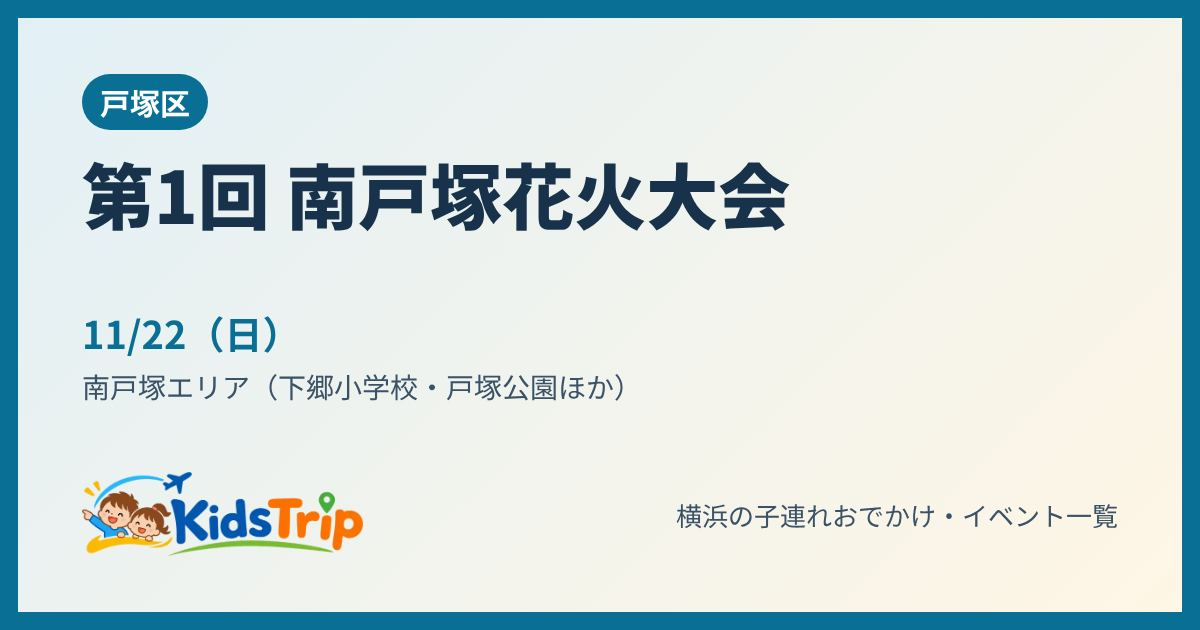
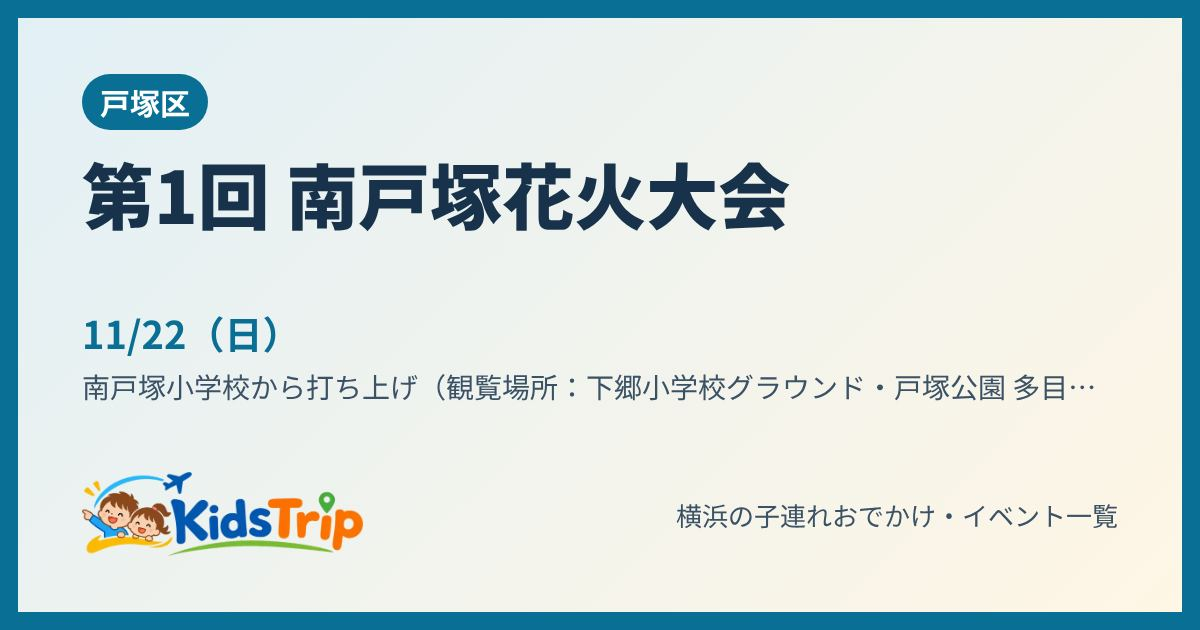
南戸塚花火大会：概要（観覧場所・イベント会場）は載せ、くわしい内容は主催のInstagramへ誘導する形に
Claude-Session: https://claude.ai/code/session_014AtJ2gk8Y7wNUEGdkodLXj

Changed region(s): [[0.1233, 0.573, 0.8942, 0.6333]]

diff --git a/js/data.js b/js/data.js
@@ -1992,7 +1992,7 @@ EVENTS.push({"t": "こども科学捜査・体験教室（磯子センター）"
 EVENTS.push({"t": "い草で作る正月飾り（日野中央公園）", "days": ["12/12"], "time": "10:00〜11:00", "ward": "港南区", "venue": "日野中央公園（港南区日野中央2-2-1）", "price": "paid", "priceText": "1,500円", "place": "屋内", "rain": "check", "rainText": "公式ページに記載なし", "resv": true, "resvText": "電話・FAX・メール・窓口で申込（11/11〜12/11、先着10人）", "age": [6, 99], "ageText": "子ども〜大人", "kind": "limited", "start": 600, "sum": "畳の材料のい草で、玄関に飾れる正月飾りを作る。", "tip": "軍手と持ち帰り用の袋を持っていく", "url": "https://cgi.city.yokohama.lg.jp/common/event2/event_detail.html?id=111884", "src": "横浜市 市民利用施設等イベント情報", "asof": "2026年11月19日"});
 EVENTS.push({"t": "金沢動物園 コアラ・オオカンガルー来園40周年 写真展・モザイクアート", "days": [], "time": "9:30〜16:30（入園は16:00まで）", "ward": "金沢区", "venue": "金沢動物園 オセアニア休憩所", "price": "admission", "priceText": "入園料：一般500円・高校生300円・小中学生200円・未就学児無料（土曜は高校生以下無料）", "place": "屋内", "rain": "check", "rainText": "雨で場所・時間が変わることあり", "resv": false, "resvText": "予約不要", "age": [0, 99], "ageText": "全年齢", "kind": "ongoing", "start": 570, "period": "10/13〜12/27", "sum": "コアラとオオカンガルーが来て40年の記念展示。懐かしい写真や家系図、来園者の写真で作ったモザイクアートが見られる。", "tip": "月曜休園", "url": "https://www.hama-midorinokyokai.or.jp/zoo/kanazawa/details/koala%20kangaroo40th.php", "src": "金沢動物園 公式", "asof": "2026年11月19日"});
 EVENTS.push({"t": "横浜・みなとみらいクリスマスミッションビンゴ", "days": [], "period": "11/20〜12/4", "time": "各施設の営業時間（ワールドポーターズのノベルティ引き換えは11:00〜20:30）", "ward": "中区", "venue": "横浜ワールドポーターズ・横浜赤レンガ倉庫ほか みなとみらいの参加施設", "price": "unknown", "priceText": "参加費は公式ページに記載なし（ワールドポーターズのミッションは期間中のレシートが対象）", "place": "屋内・屋外", "rain": "check", "rainText": "施設をめぐるので雨の日は屋内の施設中心に", "resv": false, "resvText": "予約不要（ビンゴチラシを入手して参加）", "age": [0, 99], "ageText": "家族で", "kind": "ongoing", "start": 660, "sum": "みなとみらいの参加施設ごとのミッションをクリアしてスタンプを集め、ビンゴを達成すると限定ノベルティシールがもらえる街めぐりの企画。", "tip": "チラシはワールドポーターズ1階観覧車側・2階汽車道側の入口ラックや参加施設で。ワールドポーターズでの引き換えは2階インフォメーションで、1人1枚・なくなりしだい終了。参加施設とミッションは赤レンガ倉庫のクリスマスマーケットのページ「近隣エリアとの連携」で。", "url": "https://www.yim.co.jp/news/detail/5251", "src": "横浜ワールドポーターズ公式（イベントニュース）", "asof": "2026年11月19日"});
-EVENTS.push({"t": "第1回 南戸塚花火大会", "days": ["11/22"], "time": "花火 17:50〜18:20（イベント会場は15:00〜19:00）", "ward": "戸塚区", "venue": "南戸塚エリア（下郷小学校・戸塚公園ほか）", "price": "unknown", "priceText": "チラシに記載なし", "place": "屋外", "rain": "check", "rainText": "雨の場合は11/28(土)に延期（当日の開催は主催の公式Instagramで）", "resv": null, "resvText": "チラシに記載なし", "age": [0, 99], "ageText": "全年齢（地域の子どもたちに向けた花火大会）", "kind": "limited", "start": 900, "sum": "「地域の子どもたちに笑顔を」をテーマにした、南戸塚で初めての地域の花火大会。", "tip": "観覧場所・行き方・交通規制・当日の開催は、主催の公式Instagramで確認を。車では行けない。", "url": "https://www.instagram.com/minamitotsuka_fireworks/", "src": "主催（南戸塚花火大会実行委員会）のInstagram @minamitotsuka_fireworks のチラシ・イベント会場マップ・会場周辺マップ（利用者が送った画面・2026年11月）", "asof": "2026年11月21日", "officialOnly": true, "officialLabel": "主催の公式Instagramを開く"});
+EVENTS.push({"t": "第1回 南戸塚花火大会", "days": ["11/22"], "time": "花火 17:50〜18:20（イベント会場は15:00〜19:00）", "ward": "戸塚区", "venue": "南戸塚小学校から打ち上げ（観覧場所：下郷小学校グラウンド・戸塚公園 多目的グラウンド・戸塚柏桜荘 屋上）", "price": "unknown", "priceText": "チラシに記載なし", "place": "屋外", "rain": "check", "rainText": "雨の場合は11/28(土)に延期（当日の開催は主催の公式Instagramでお知らせ）", "resv": null, "resvText": "チラシに記載なし", "age": [0, 99], "ageText": "全年齢（地域の子どもたちに向けた花火大会）", "kind": "limited", "start": 900, "sum": "「地域の子どもたちに笑顔を」をテーマにした、南戸塚で初めての花火大会。夕方の30分間、小学校から打ち上がる。15時からは戸塚公園のイベント会場で、キックターゲットやバスケット体験、ストラックアウトなど子ども向けの遊びもある。", "tip": "会場へはバスか歩きで（車は不可）。17:50からなので、小さい子は防寒を。くわしい行き方・交通規制・イベント会場の内容・当日の開催は、主催の公式Instagramで確認を。", "url": "https://www.instagram.com/minamitotsuka_fireworks/", "src": "主催（南戸塚花火大会実行委員会）のInstagram @minamitotsuka_fireworks のチラシ・イベント会場マップ・会場周辺マップ（利用者が送った画面・2026年11月）", "asof": "2026年11月21日", "officialOnly": true, "officialLabel": "主催の公式Instagramを開く"});
 EVENTS.push({"t": "水辺ストリート♬ミニライブ in 横浜市役所", "days": ["11/21"], "time": "17:15〜17:45", "ward": "中区", "venue": "横浜市役所 1F 水辺テラス（桜木町駅前）", "price": "unknown", "priceText": "公式ページに記載なし", "place": "屋外", "rain": "check", "rainText": "天候によって中止、または場所を変えることがある", "resv": null, "resvText": "公式ページに記載なし", "age": [0, 99], "ageText": "公式ページに記載なし（だれでも見られる場所での生ライブ）", "kind": "limited", "start": 1035, "sum": "みなとみらいの景色を見わたせる市役所の水辺テラスで、30分の生ライブ（出演：菅原貴司）。", "tip": "夕方なので防寒を。市役所の1F南側に授乳室・ベビー休憩室（毎日7〜23時・お湯あり）があるので、赤ちゃん連れでも安心。前後に館内の「LUXS FRONT」でごはんも。", "url": "https://www.atrium.city.yokohama.lg.jp/event/", "src": "横浜市役所アトリウム 公式（イベント）", "asof": "2026年11月19日"});
 EVENTS.push({"t": "SDGs未来都市・環境絵日記展2026（横浜市役所）", "days": [], "period": "11/29〜12/6", "time": "公式ページに記載なし（市役所の開いている時間に）", "ward": "中区", "venue": "横浜市役所 1F 展示スペースA・B（桜木町駅前・馬車道駅直結）", "price": "unknown", "priceText": "公式ページに記載なし", "place": "屋内", "rain": "ok", "rainText": "屋内", "resv": null, "resvText": "公式ページに記載なし", "age": [0, 99], "ageText": "公式ページに記載なし", "kind": "ongoing", "start": 600, "sum": "横浜市内の小学生が描いた「環境絵日記」のうちリサイクルデザイン賞の308作品と、高知県・サンディエゴ・ウランバートル・ネパールの子どもたちの絵日記を展示。", "tip": "小学生のきょうだいがいる家族は、同じ年ごろの子の絵を見るきっかけに。市役所の1F南側に授乳室・ベビー休憩室（毎日7〜23時・お湯あり）。", "url": "https://www.atrium.city.yokohama.lg.jp/event/", "src": "横浜市役所アトリウム 公式（イベント）", "asof": "2026年11月19日"});
 EVENTS.push({"t": "レゴのサンタグリーティング＆ブロック組み立て（BALLPARK Xmas）", "days": ["11/28", "11/29", "12/12", "12/13"], "time": "サンタのグリーティング11:00・13:00・15:00（各30分ほど）、組み立て・サンタ探しは11:00〜17:00（サンタ探しの受付は16:00まで）", "ward": "中区", "venue": "横浜公園（キッズエリア・ツリー前）・BASEGATE横浜関内（12/12のグリーティングはBASEGATEのセントラルプラザ）", "price": "free", "priceText": "無料", "place": "屋外", "rain": "check", "rainText": "BASEGATE 3Fのキッズスペースは荒天で中止。ほかは公式ページに記載なし", "resv": false, "resvText": "予約なし・先着（サンタ探しはレゴジャパンのLINE公式アカウントの友だち登録が必要。ミニキットは数に限りあり）", "age": [1, 12], "ageText": "レゴは4歳から、デュプロは1歳半から（未就学児は保護者と一緒に）", "kind": "limited", "start": 660, "sum": "横浜公園のクリスマス会場で、レゴのサンタに会ったり、ブロックを組み立てて持ち帰ったりできる4日間。", "tip": "「レゴプール」は12/25まで毎日11:00〜17:00に無料で遊べる。BALLPARK Xmas本体の情報もあわせて見て", "url": "https://ballparkxmas.com/2026/", "src": "BALLPARK Xmas YOKOHAMA KANNAI 2026 公式", "asof": "2026年11月20日"});

diff --git a/event/kntu4a/index.html b/event/kntu4a/index.html
@@ -4,12 +4,12 @@
 <meta charset="utf-8">
 <meta name="viewport" content="width=device-width, initial-scale=1">
 <title>第1回 南戸塚花火大会（戸塚区）｜横浜の子連れイベント｜KidsTrip</title>
-<meta name="description" content="11月22日(日)　南戸塚エリア（下郷小学校・戸塚公園ほか）。「地域の子どもたちに笑顔を」をテーマにした、南戸塚で初めての地域の花火大会。">
+<meta name="description" content="11月22日(日)　南戸塚小学校から打ち上げ（観覧場所：下郷小学校グラウンド・戸塚公園 多目的グラウンド・戸塚柏桜荘 屋上）。「地域の子どもたちに笑顔を」をテーマにした、南戸塚で初めての花火大会。夕方の30分間、小学校から打ち上がる。15時">
 <link rel="canonical" href="https://kidstrip.jp/event/kntu4a/">
 <meta property="og:type" content="article">
 <meta property="og:site_name" content="KidsTrip">
 <meta property="og:title" content="第1回 南戸塚花火大会（戸塚区）｜横浜の子連れイベント｜KidsTrip">
-<meta property="og:description" content="11月22日(日)　南戸塚エリア（下郷小学校・戸塚公園ほか）。「地域の子どもたちに笑顔を」をテーマにした、南戸塚で初めての地域の花火大会。">
+<meta property="og:description" content="11月22日(日)　南戸塚小学校から打ち上げ（観覧場所：下郷小学校グラウンド・戸塚公園 多目的グラウンド・戸塚柏桜荘 屋上）。「地域の子どもたちに笑顔を」をテーマにした、南戸塚で初めての花火大会。夕方の30分間、小学校から打ち上がる。15時">
 <meta property="og:url" content="https://kidstrip.jp/event/kntu4a/">
 <meta property="og:image" content="https://kidstrip.jp/og/kntu4a.jpg">
 <meta property="og:image:width" content="1200">
@@ -21,7 +21,7 @@
 <link rel="icon" href="../../img/favicon.png">
 <link rel="apple-touch-icon" href="../../img/apple-touch-icon.png">
 <script type="application/ld+json">{"@context": "https://schema.org", "@type": "BreadcrumbList", "itemListElement": [{"@type": "ListItem", "position": 1, "name": "トップ", "item": "https://kidstrip.jp/"}, {"@type": "ListItem", "position": 2, "name": "イベント", "item": "https://kidstrip.jp/"}, {"@type": "ListItem", "position": 3, "name": "第1回 南戸塚花火大会"}]}</script>
-<script type="application/ld+json">{"@context": "https://schema.org", "@type": "Event", "name": "第1回 南戸塚花火大会", "startDate": "2026-11-22T15:00:00+09:00", "endDate": "2026-11-22", "eventStatus": "https://schema.org/EventScheduled", "eventAttendanceMode": "https://schema.org/OfflineEventAttendanceMode", "location": {"@type": "Place", "name": "南戸塚エリア（下郷小学校・戸塚公園ほか）", "address": {"@type": "PostalAddress", "addressLocality": "横浜市戸塚区", "addressRegion": "神奈川県", "addressCountry": "JP"}}, "description": "「地域の子どもたちに笑顔を」をテーマにした、南戸塚で初めての地域の花火大会。", "image": ["https://kidstrip.jp/og/kntu4a.jpg"], "url": "https://kidstrip.jp/event/kntu4a/", "isAccessibleForFree": false, "inLanguage": "ja"}</script>
+<script type="application/ld+json">{"@context": "https://schema.org", "@type": "Event", "name": "第1回 南戸塚花火大会", "startDate": "2026-11-22T15:00:00+09:00", "endDate": "2026-11-22", "eventStatus": "https://schema.org/EventScheduled", "eventAttendanceMode": "https://schema.org/OfflineEventAttendanceMode", "location": {"@type": "Place", "name": "南戸塚小学校から打ち上げ（観覧場所：下郷小学校グラウンド・戸塚公園 多目的グラウンド・戸塚柏桜荘 屋上）", "address": {"@type": "PostalAddress", "addressLocality": "横浜市戸塚区", "addressRegion": "神奈川県", "addressCountry": "JP"}}, "description": "「地域の子どもたちに笑顔を」をテーマにした、南戸塚で初めての花火大会。夕方の30分間、小学校から打ち上がる。15時からは戸塚公園のイベント会場で、キックターゲットやバスケット体験、ストラックアウトなど子ども向けの遊びもある。", "image": ["https://kidstrip.jp/og/kntu4a.jpg"], "url": "https://kidstrip.jp/event/kntu4a/", "isAccessibleForFree": false, "inLanguage": "ja"}</script>
 <style>
 .gkcmp th[scope=row]{white-space:nowrap}.gkcmp td{font-size:.92em}
 .gk{list-style:none;padding:0}.gk li{border:1px solid #e5e5e5;border-radius:10px;padding:10px 12px;margin:8px 0;line-height:1.7}.gk h3{margin:0 0 2px;font-size:1.02em}
@@ -50,19 +50,19 @@ footer{margin:28px 0 8px;font-size:12px;color:var(--muted)}
 <p class="crumb"><a href="/">トップ</a> ＞ <a href="/">イベント</a> ＞ 第1回 南戸塚花火大会</p>
 <article class="card">
 <h1>第1回 南戸塚花火大会</h1>
-<p class="tip">主催から「公式の情報を見てほしい」とのお願いがあるため、ここでは概要だけ載せています。観覧場所・行き方・当日の開催は主催の公式ページで確認してください。</p><div class="btns"><a class="btn main" data-act="official" href="https://www.instagram.com/minamitotsuka_fireworks/" target="_blank" rel="noopener">主催の公式Instagramを開く</a></div>
+<p class="tip">主催から「公式の情報を見てほしい」とのお願いがあるため、くわしい行き方・交通規制・当日の開催などは主催の公式ページで確認してください。</p><div class="btns"><a class="btn main" data-act="official" href="https://www.instagram.com/minamitotsuka_fireworks/" target="_blank" rel="noopener">主催の公式Instagramを開く</a></div>
 <ul class="chips"><li>料金要確認</li><li>全年齢（地域の子どもたちに向けた花火大会）</li><li>屋外</li><li>天気に注意</li></ul>
 <table class="info">
 <tr><th>日にち</th><td>11月22日(日)</td></tr>
 <tr><th>時間</th><td>花火 17:50〜18:20（イベント会場は15:00〜19:00）</td></tr>
-<tr><th>場所</th><td>戸塚区・南戸塚エリア（下郷小学校・戸塚公園ほか）</td></tr>
+<tr><th>場所</th><td>戸塚区・南戸塚小学校から打ち上げ（観覧場所：下郷小学校グラウンド・戸塚公園 多目的グラウンド・戸塚柏桜荘 屋上）</td></tr>
 <tr><th>料金</th><td>チラシに記載なし</td></tr>
 <tr><th>対象</th><td>全年齢（地域の子どもたちに向けた花火大会）</td></tr>
 <tr><th>予約</th><td>チラシに記載なし</td></tr>
-<tr><th>雨の日</th><td>天気に注意（雨の場合は11/28(土)に延期（当日の開催は主催の公式Instagramで））</td></tr>
+<tr><th>雨の日</th><td>天気に注意（雨の場合は11/28(土)に延期（当日の開催は主催の公式Instagramでお知らせ））</td></tr>
 </table>
-<p class="sum">「地域の子どもたちに笑顔を」をテーマにした、南戸塚で初めての地域の花火大会。</p>
-<p class="tip">💡 観覧場所・行き方・交通規制・当日の開催は、主催の公式Instagramで確認を。車では行けない。</p>
+<p class="sum">「地域の子どもたちに笑顔を」をテーマにした、南戸塚で初めての花火大会。夕方の30分間、小学校から打ち上がる。15時からは戸塚公園のイベント会場で、キックターゲットやバスケット体験、ストラックアウトなど子ども向けの遊びもある。</p>
+<p class="tip">💡 会場へはバスか歩きで（車は不可）。17:50からなので、小さい子は防寒を。くわしい行き方・交通規制・イベント会場の内容・当日の開催は、主催の公式Instagramで確認を。</p>
 <p class="small">情報の時点：2026年11月21日　出典：主催（南戸塚花火大会実行委員会）のInstagram @minamitotsuka_fireworks のチラシ・イベント会場マップ・会場周辺マップ（利用者が送った画面・2026年11月）</p>
 <div class="btns"><a class="btn main" data-act="official" href="https://www.instagram.com/minamitotsuka_fireworks/" target="_blank" rel="noopener">公式ページで確認</a>
 <a class="btn" href="/?e=kntu4a">一覧で見る（行き方・近くのごはん）</a>

diff --git a/index.html b/index.html
@@ -754,7 +754,7 @@ section[id], div[id="events"] { scroll-margin-top: 56px; }
   </footer>
 </div>
 
-<script src="js/data.js?v=b5ed7cb24f" defer></script>
+<script src="js/data.js?v=71883803ce" defer></script>
 <script src="js/app.js?v=564ad1be4d" defer></script>
 </body>
 </html>

diff --git a/tools/build_pages.py b/tools/build_pages.py
@@ -369,7 +369,7 @@ def event_page(e, d, spot_ids, track_url):
     body = f"""{ch}
 <article class="card">
 <h1>{E(e['t'])}</h1>
-{('<p class="tip">主催から「公式の情報を見てほしい」とのお願いがあるため、ここでは概要だけ載せています。観覧場所・行き方・当日の開催は主催の公式ページで確認してください。</p><div class="btns"><a class="btn main" data-act="official" href="' + E(e['url']) + '" target="_blank" rel="noopener">' + E(e.get('officialLabel') or '主催の公式ページを開く') + '</a></div>') if e.get('officialOnly') else ''}
+{('<p class="tip">主催から「公式の情報を見てほしい」とのお願いがあるため、くわしい行き方・交通規制・当日の開催などは主催の公式ページで確認してください。</p><div class="btns"><a class="btn main" data-act="official" href="' + E(e['url']) + '" target="_blank" rel="noopener">' + E(e.get('officialLabel') or '主催の公式ページを開く') + '</a></div>') if e.get('officialOnly') else ''}
 <ul class="chips">{chips}</ul>
 <table class="info">
 <tr><th>日にち</th><td>{E(when_text(e))}</td></tr>

diff --git a/CLAUDE.md b/CLAUDE.md
@@ -54,7 +54,7 @@
 - 食べログなどの機械的な収集はしない。
 - 個人の情報（投稿者の名前など）は載せない。
 - 使われ方の記録（`TRACK_URL` と `track(...)` の処理、フッターの記録についての一文）は消さない。記録先は利用者のGoogleスプレッドシート（`tools/tracking-apps-script.gs`）。個人情報は送らない。ブラウザ情報（UA）を送り、スプレッドシート側で「人／自分／ボット」に分けて、まとめは「人」だけで数える（自分の端末は `?me=1` か、スクリプトの `OWN_VIDS`）。
-- 主催が「公式の情報を見てほしい」と二次拡散を心配しているイベントは `officialOnly:true`（と `officialLabel:"主催の公式Instagramを開く"` など）を付け、概要だけ載せる（題名を押すと公式に飛び、カード・個別ページの「リンクを送る」「LINEで送る」は出さない。観覧場所・行き方などのくわしい内容は書かない）。例：第1回 南戸塚花火大会（利用者の希望、2026年11月）。
+- 主催が「公式の情報を見てほしい」と二次拡散を心配しているイベントは `officialOnly:true`（と `officialLabel:"主催の公式Instagramを開く"` など）を付け、概要は載せて、くわしい内容（行き方・交通規制・当日の開催など）は公式へ誘導する（題名を押すと公式に飛び、カード・個別ページの「リンクを送る」「LINEで送る」は出さない）。例：第1回 南戸塚花火大会（利用者の希望、2026年11月）。
 - 予約ページが公式ページと別にあるイベントは `resvUrl` に入れる（カードに「予約ページへ」ボタンが出て、押された回数を記録できる）。
 - 各タブの先頭の「要点」（`<ul class="points">`、3行まで）：イベントの要点はデータから自動で作るが、JSが動く前（検索エンジン・SNSのプレビュー）用にデータに関係しない3行をHTMLに書いておく。ごはん・おむつはHTMLに書いた3行（`.points.static`）を残し、エリアごとの要点はデータから自動で作る。近くで探す・みんなの投稿・くらし・チェーン店・困ったときの要点は手書きなので、その下の中身を変えたら要点も合わせて直す。細かい内容は `<details class="fold">`（くわしく見る）の中に入れる。見出しだったもの（`<h3>` など）をたたむときは、`<summary><h3 class="fsum">…</h3></summary>` のように見出しを `<summary>` の中に残す（見出しの数を減らさない）。
 - イベントごとのリンク（送るのは `https://kidstrip.jp/event/ID/`、そのページの「一覧で見る」は `https://kidstrip.jp/?e=ID`）：ID はイベント名 `t` から自動で作る。送られたリンクが切れないよう、載せたあとのイベント名はなるべく変えない。どうしても変えるときは、変える前のIDを `id:"…"` として残す（ページを開いて `EVENTS.find(e => e.t === "…").id` で分かる）。お気に入り（☆）は利用者のスマホの中に保存される。

diff --git a/tools/runs.md b/tools/runs.md
@@ -42,3 +42,4 @@
 | 2026-11-21 | 利用者との作業 | 19:43〜19:43 | 4 | 南戸塚花火大会：主催Instagramの画面からイベント会場（15〜19時・体験ブース）・バス停・交通規制を追加 |
 | 2026-11-21 | 利用者との作業 | 19:44〜19:44 | 2 | 南戸塚花火大会：規制時間（12〜19時）・大きな音・混雑の注意を主催の投稿から追加 |
 | 2026-11-21 | 利用者との作業 | 19:48〜19:48 | 8 | 南戸塚花火大会を概要だけにし、押すと主催の公式Instagramに飛ぶように（officialOnly。共有ボタンも出さない） |
+| 2026-11-21 | 利用者との作業 | 19:50〜19:50 | 3 | 南戸塚花火大会：概要（観覧場所・イベント会場）は戻し、くわしくは主催Instagramへ誘導する形に |
